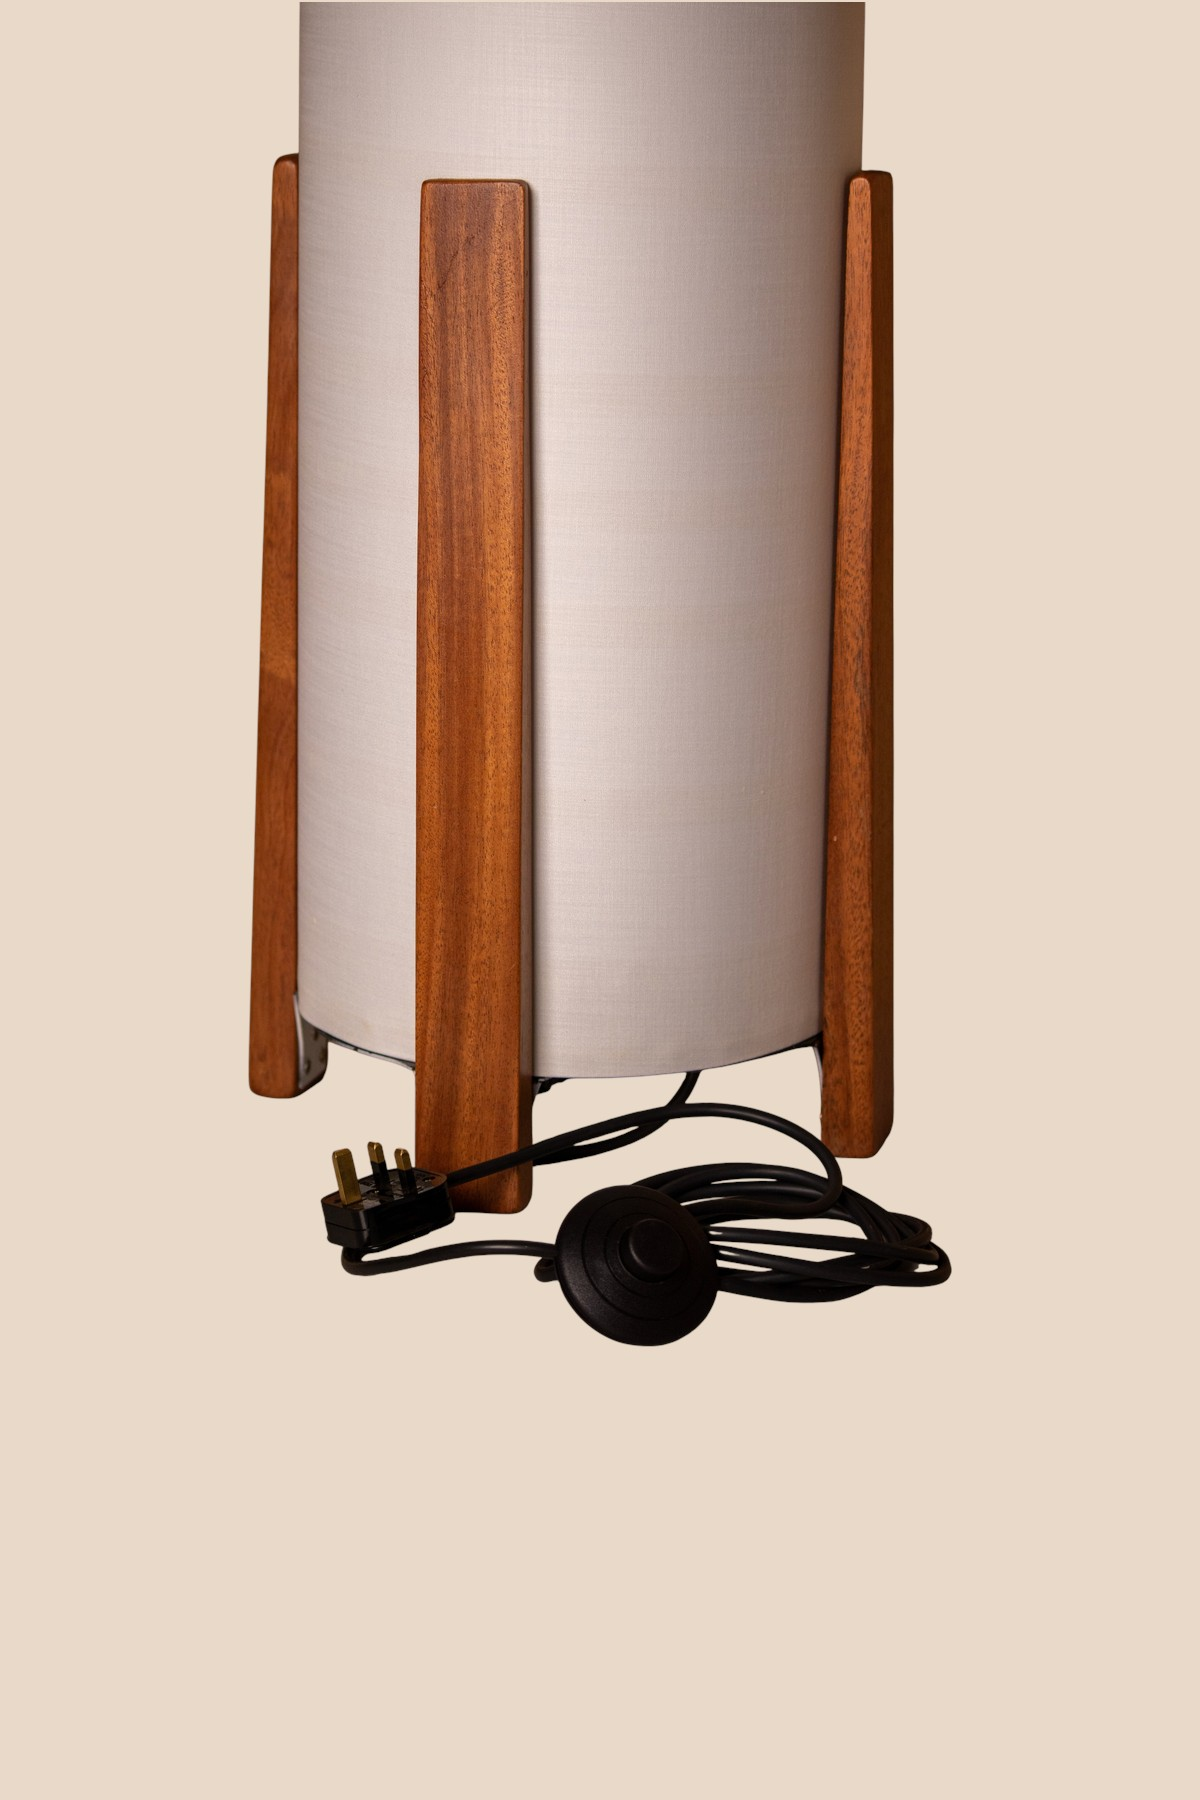
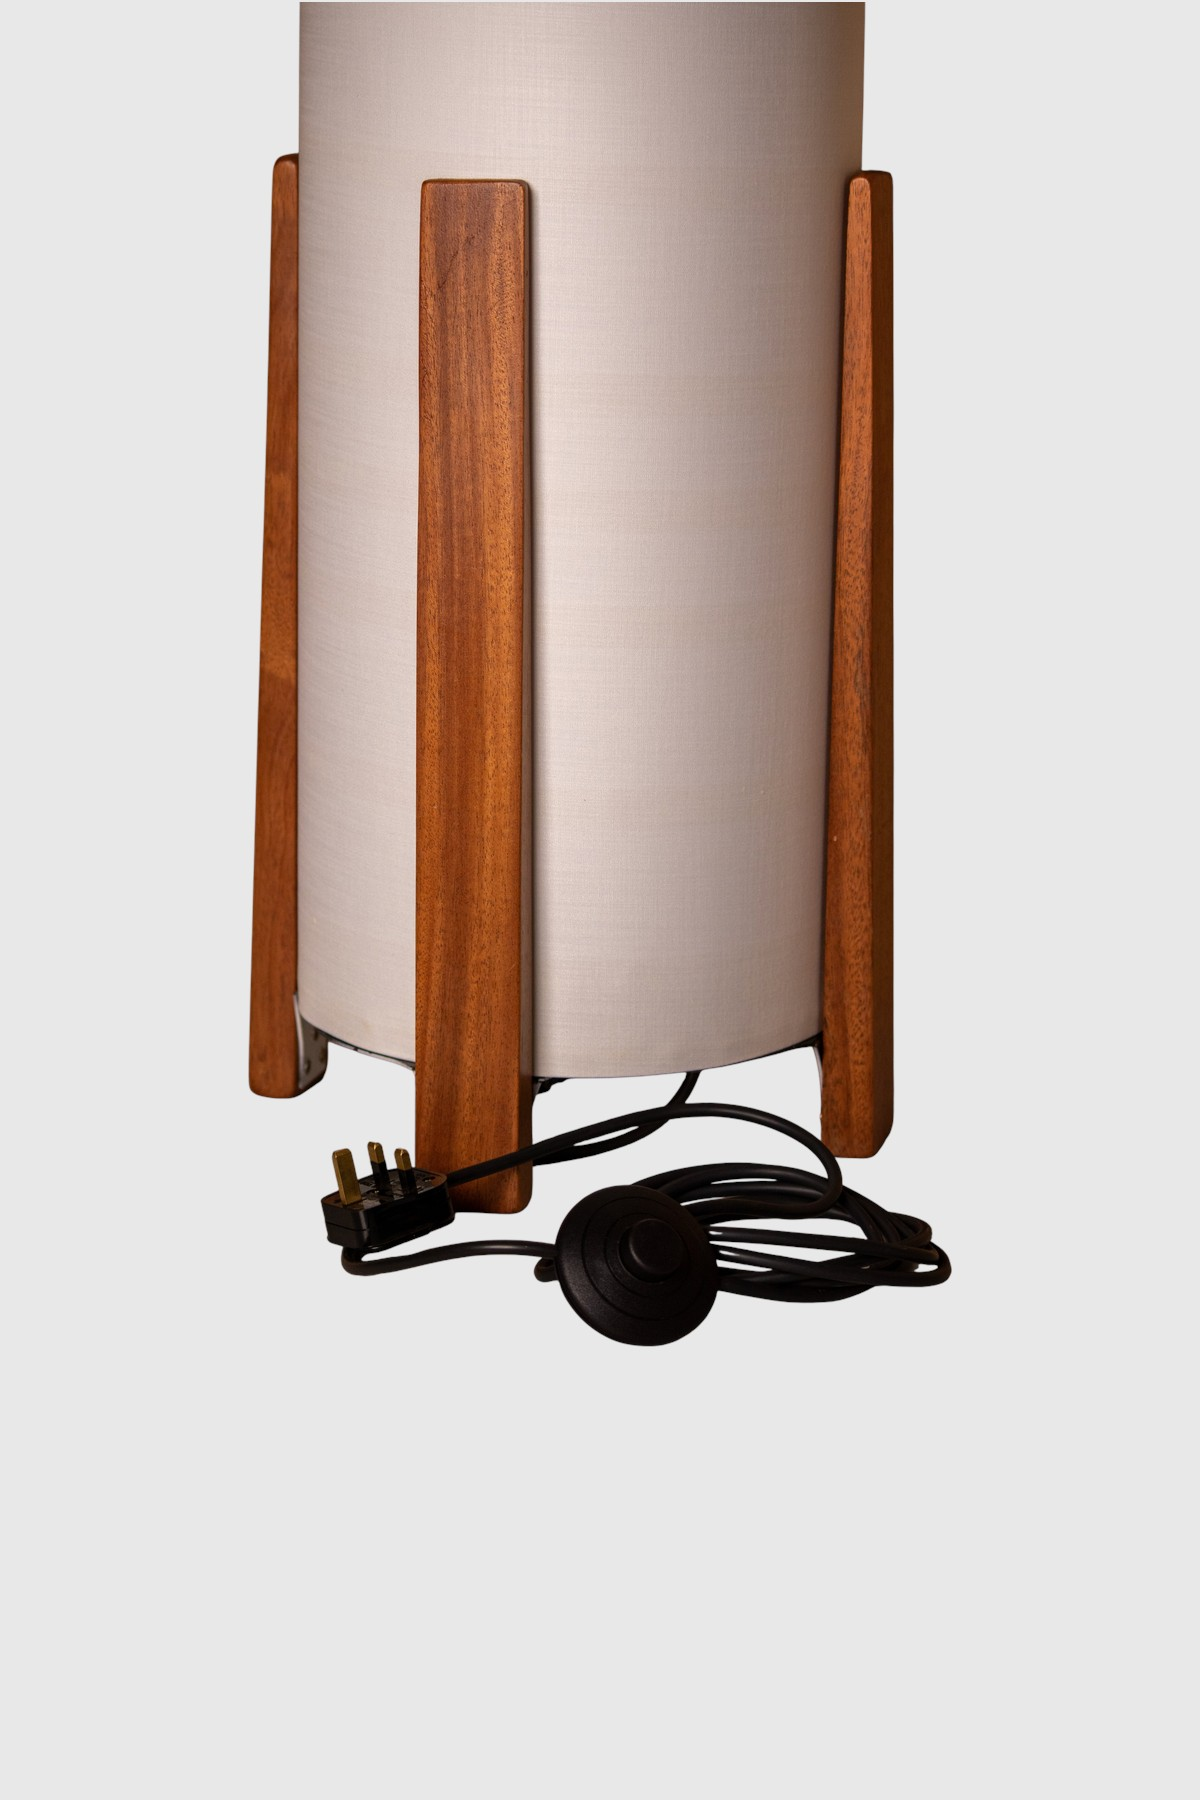
Most chosen removed

diff --git a/floor-lamps.html b/floor-lamps.html
@@ -54,7 +54,6 @@
         cherished elsewhere. Click on any lamp to read its full story and find out how to order one.</p>-->
       <div class="product-grid product-grid--tall">
         <a href="products/haven-beige.html" class="product-card reveal">
-          <span class="card-tags"><span class="card-tag card-tag--fav">Most chosen</span></span>
           <div class="photo-placeholder"><img src="images/haven-beige-main.jpg" alt="Haven — Beige"></div>
           <p class="kind">Floor lamp</p>
           <h3>Haven — Beige</h3>
@@ -70,7 +69,6 @@
           <span class="offer-countdown" data-countdown-key="haven-charcoalgrey" hidden></span>
         </a>
         <a href="products/haven-offwhite.html" class="product-card reveal">
-          <span class="card-tags"><span class="card-tag card-tag--fav">Most chosen</span></span>
           <div class="photo-placeholder"><img src="images/haven-offwhite-main.jpg" alt="Haven — Off-white"></div>
           <p class="kind">Floor lamp</p>
           <h3>Haven — Off-white</h3>

diff --git a/index.html b/index.html
@@ -100,7 +100,6 @@
       </div>
       <div class="product-grid product-grid--start">
         <a href="products/haven-beige.html" class="product-card">
-          <span class="card-tags"><span class="card-tag card-tag--fav">Most chosen</span></span>
           <div class="photo-placeholder"><img src="images/haven-beige-main.jpg" alt="Haven — Beige"></div>
           <p class="kind">Floor lamp</p>
           <h3>Haven — Beige</h3>
@@ -116,7 +115,6 @@
           <span class="offer-countdown" data-countdown-key="penumbra" hidden></span>
         </a>
         <a href="products/haven-offwhite.html" class="product-card">
-          <span class="card-tags"><span class="card-tag card-tag--fav">Most chosen</span></span>
           <div class="photo-placeholder"><img src="images/haven-offwhite-main.jpg" alt="Haven — Off-white"></div>
           <p class="kind">Floor lamp</p>
           <h3>Haven — Off-white</h3>

diff --git a/js/main.js b/js/main.js
@@ -136,8 +136,8 @@ document.addEventListener('DOMContentLoaded', () => {
 const ALSO_LIKE_FAMILIES = {
   haven: {
     variants: [
-      { slug: 'beige',          name: 'Haven — Beige', favorite: true },
-      { slug: 'offwhite',       name: 'Haven — Off-white', favorite: true },
+      { slug: 'beige',          name: 'Haven — Beige' },
+      { slug: 'offwhite',       name: 'Haven — Off-white' },
       { slug: 'lightslategrey', name: 'Haven — Light slate grey' },
       { slug: 'charcoalgrey',   name: 'Haven — Charcoal grey' },
       { slug: 'oatmeal',        name: 'Haven — Oatmeal' }
